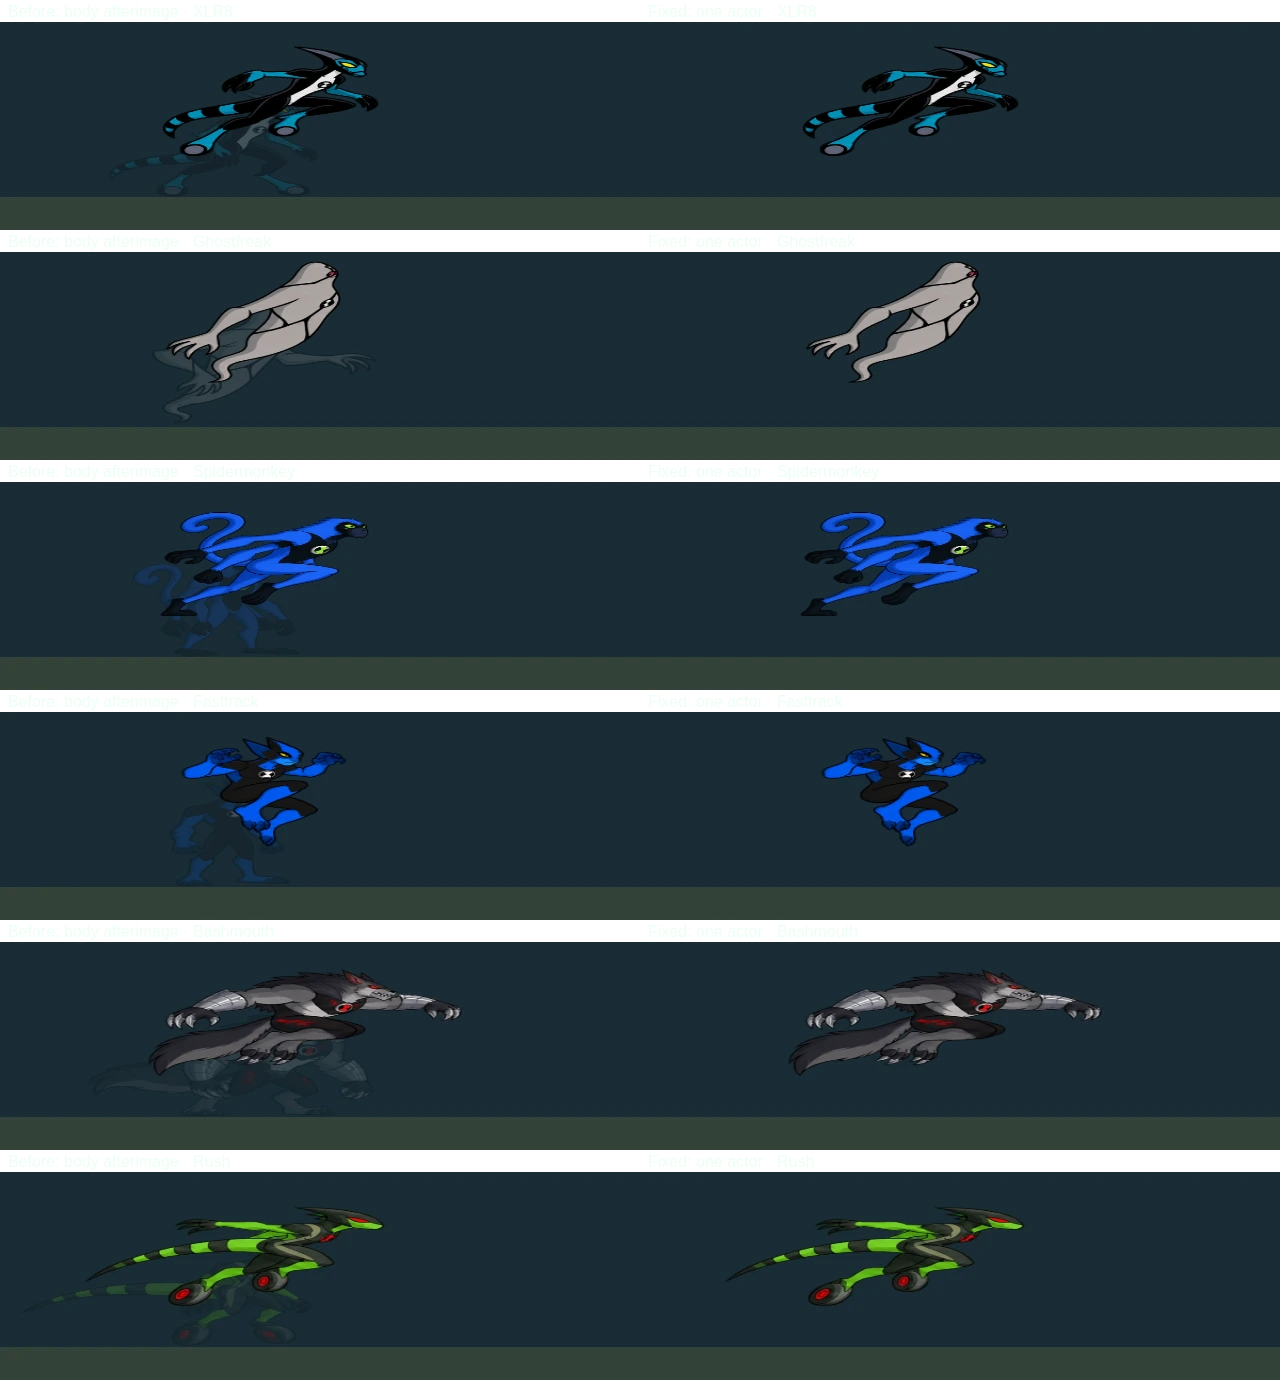
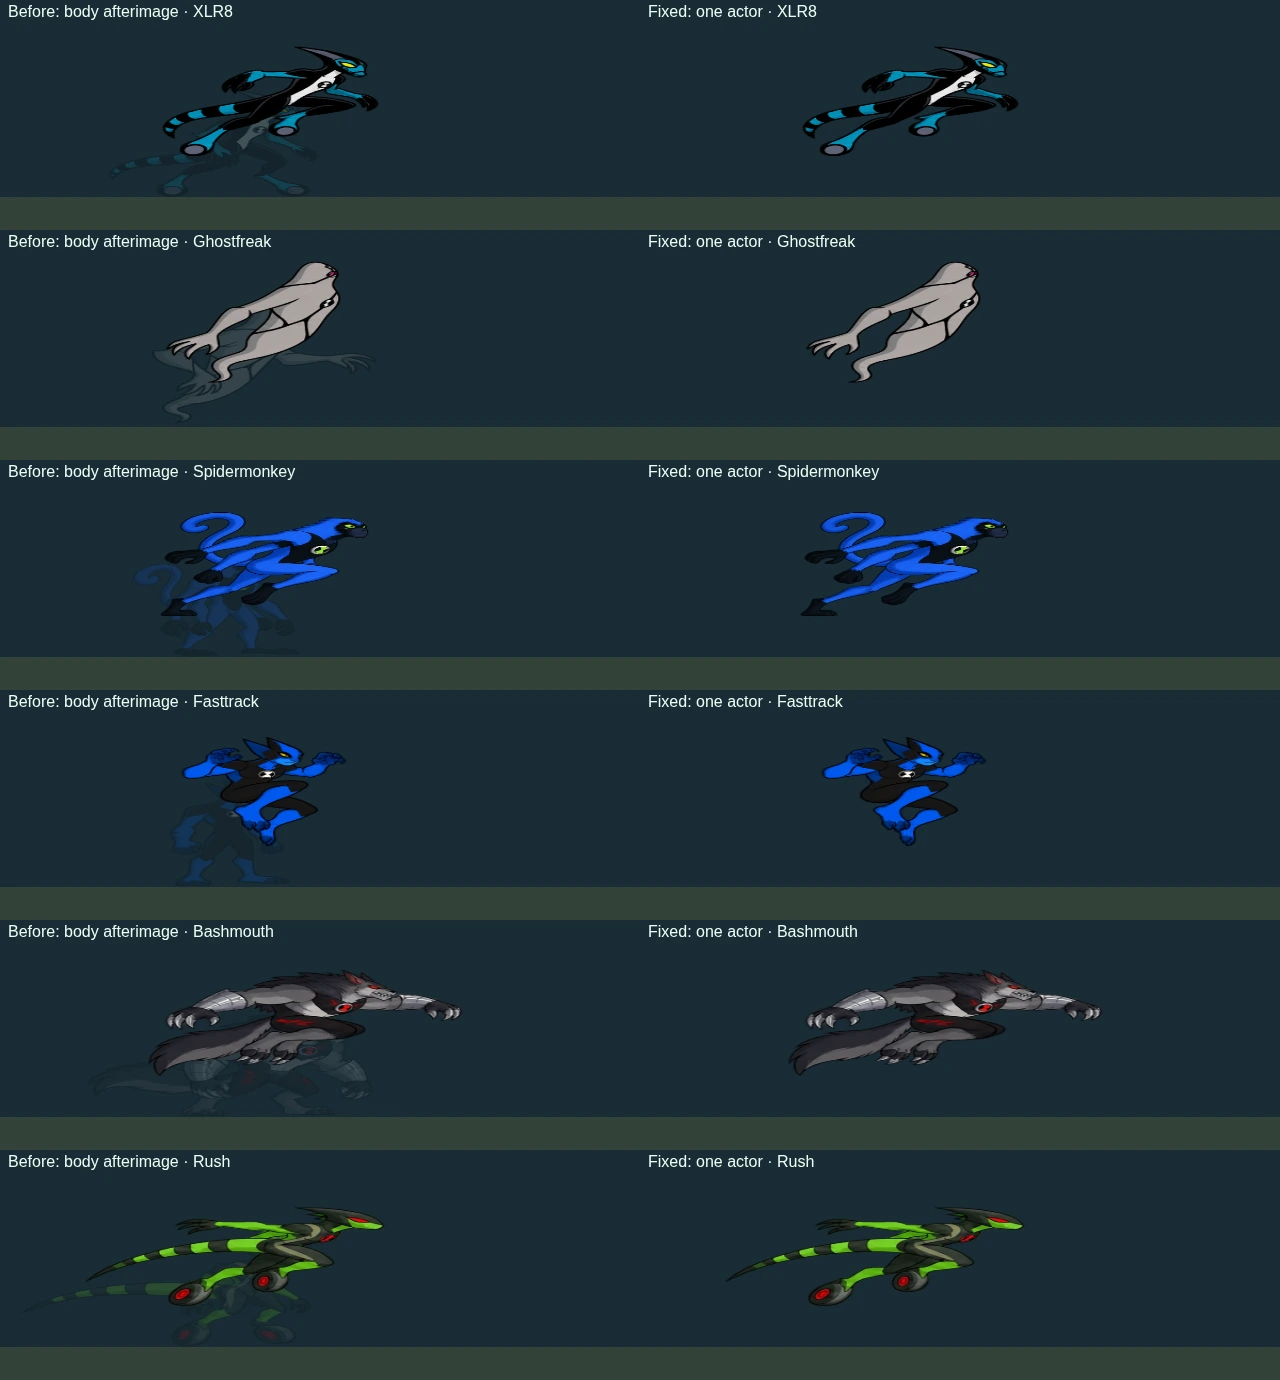
[art-audit] Save corrected ground motion and single-body jump verification

diff --git a/web/walk131-data.js b/web/walk131-data.js
@@ -1,2 +1,2 @@
 'use strict';
-const WALK131_DATA={"version":131,"characters":{"5":{"stride":0.94,"offsets":[0.0,0.010127,0.007595,-0.005063,-0.007595,-0.002532,0.012658,0.0],"nativeFrames":8},"8":{"stride":0.799,"offsets":[-0.008065,0.003456,0.008065,-0.003456,-0.00576,0.001152,0.003456,-0.001152],"nativeFrames":8},"11":{"stride":0.85,"offsets":[-0.00905,0.00905,0.002262,-0.002262,0.002262,0.013575,-0.011312,-0.011312],"nativeFrames":8},"12":{"stride":0.842084,"offsets":[0.009454,0.003151,-0.003151,-0.007353,-0.013655,0.013655,0.013655,-0.013655],"nativeFrames":8},"13":{"stride":0.864541,"offsets":[-0.013793,-0.011494,-0.002299,0.006897,-0.013793,0.006897,0.02069,0.002299],"nativeFrames":8},"14":{"stride":0.78,"offsets":[-0.00116,0.00116,0.0058,-0.00348,0.00116,0.0058,-0.00116,-0.0058],"nativeFrames":8},"15":{"stride":0.9,"offsets":[-0.003571,0.003571,-0.00119,0.00119,-0.00119,0.005952,-0.005952,0.00119],"nativeFrames":8},"16":{"stride":0.9,"offsets":[-0.00939,0.00939,-0.016432,0.002347,0.007042,-0.004695,0.011737,-0.002347],"nativeFrames":8},"17":{"stride":0.7055,"offsets":[-0.014706,0.001131,0.007919,-0.014706,0.012443,-0.001131,0.005656,-0.005656],"nativeFrames":8},"18":{"stride":0.782,"offsets":[-0.008316,-0.006237,0.006237,0.004158,-0.012474,0.0,0.012474,0.0],"nativeFrames":8},"20":{"stride":0.78,"offsets":[-0.002469,0.0,0.0,-0.002469,-0.004938,0.002469,0.002469,0.002469],"nativeFrames":8},"21":{"stride":0.777515,"offsets":[-0.001166,-0.01049,0.005828,-0.01049,-0.003497,0.001166,0.001166,0.01049],"nativeFrames":8},"22":{"stride":0.85,"offsets":[0.0,0.0,0.00216,-0.00432,-0.008639,0.00432,0.00216,-0.00216],"nativeFrames":8},"23":{"stride":0.7225,"offsets":[0.001109,-0.003326,-0.001109,0.001109,0.003326,0.003326,-0.007761,-0.003326],"nativeFrames":8},"27":{"stride":0.697,"offsets":[-0.001062,0.011677,0.007431,-0.001062,0.001062,-0.003185,0.009554,-0.007431],"nativeFrames":8},"28":{"stride":0.72,"offsets":[-0.01108,0.00831,0.022161,-0.00277,-0.00554,0.00277,0.00277,-0.00554],"nativeFrames":8},"29":{"stride":0.845879,"offsets":[-0.014184,0.009456,0.007092,-0.004728,0.002364,0.002364,-0.002364,-0.01182],"nativeFrames":8},"30":{"stride":0.92,"offsets":[0.002257,0.009029,-0.002257,-0.011287,-0.013544,0.004515,-0.015801,0.002257],"nativeFrames":8},"31":{"stride":0.734932,"offsets":[-0.001089,0.003268,0.005447,0.001089,-0.005447,-0.005447,0.003268,-0.011983],"nativeFrames":8},"32":{"stride":0.88,"offsets":[0.001163,0.001163,0.001163,-0.001163,-0.012791,0.003488,-0.012791,-0.005814],"nativeFrames":8},"35":{"stride":0.835039,"offsets":[-0.003488,0.002326,0.013953,-0.002326,-0.002326,0.004651,0.004651,-0.006977],"nativeFrames":8},"37":{"stride":0.72,"offsets":[-0.004831,0.0,0.009662,-0.002415,-0.002415,0.0,0.004831,0.007246],"nativeFrames":8},"38":{"stride":0.68,"offsets":[0.0,0.004819,0.0,0.0,0.0,0.0,0.00241,0.0],"nativeFrames":8},"39":{"stride":0.7,"offsets":[0.001064,-0.001064,0.026596,-0.009574,-0.005319,0.007447,0.01383,-0.001064],"nativeFrames":8},"40":{"stride":1.02,"offsets":[0.006098,0.006098,-0.006098,0.006098,-0.01626,-0.010163,-0.01626,0.010163],"nativeFrames":8},"41":{"stride":0.782,"offsets":[-0.023393,0.003358,-0.000677,0.000677,-0.021236,0.002217,-0.01626,0.001574],"nativeFrames":8},"42":{"stride":0.646,"offsets":[0.001,-0.003,0.009,-0.001,-0.001,-0.005,0.021,0.003],"nativeFrames":8},"43":{"stride":0.629,"offsets":[-0.001596,0.001596,0.00266,-0.003723,0.026064,-0.001596,0.004787,-0.001596],"nativeFrames":8},"44":{"stride":0.758639,"offsets":[-0.01828,0.005376,-0.005376,0.003226,-0.016129,-0.003226,0.005376,0.009677],"nativeFrames":8},"45":{"stride":0.708363,"offsets":[-0.007143,0.013265,0.003061,-0.003061,-0.009184,0.013265,0.005102,-0.007143],"nativeFrames":8},"46":{"stride":0.765,"offsets":[0.0,0.028866,0.024742,-0.002062,0.0,0.016495,0.0,0.0],"nativeFrames":8},"47":{"stride":0.82,"offsets":[0.001087,0.01413,0.005435,-0.005435,-0.001087,0.009783,-0.005435,-0.001087],"nativeFrames":8},"48":{"stride":0.795826,"offsets":[-0.001111,-0.001111,0.003333,0.001111,0.003333,-0.001111,0.001111,-0.003333],"nativeFrames":8},"49":{"stride":1.05,"offsets":[0.0,0.023041,0.018433,0.0,0.009217,-0.032258,-0.013825,-0.023041],"nativeFrames":8},"50":{"stride":0.92,"offsets":[0.007246,0.007246,0.0,0.0,0.007246,0.0,0.0,0.0],"nativeFrames":8},"52":{"stride":0.990621,"offsets":[0.005277,-0.007916,0.01847,0.0,-0.005277,0.0,-0.007916,0.002639],"nativeFrames":8},"54":{"stride":1.003,"offsets":[0.009132,0.0,0.0,-0.011416,0.02968,0.004566,-0.038813,0.0],"nativeFrames":8},"55":{"stride":1.003,"offsets":[0.015258,0.008216,0.001174,-0.001174,-0.003521,-0.001174,0.003521,-0.034038],"nativeFrames":8},"57":{"stride":0.85,"offsets":[0.0,0.002445,0.0,-0.002445,0.0,-0.007335,0.002445,-0.036675],"nativeFrames":8},"58":{"stride":0.85,"offsets":[0.011038,0.015453,0.011038,0.015453,-0.022075,-0.02649,-0.013245,-0.011038],"nativeFrames":8},"59":{"stride":0.7225,"offsets":[0.0,0.0,0.0,-0.002725,-0.002725,0.0,0.0,-0.002725],"nativeFrames":8},"60":{"stride":0.939773,"offsets":[0.0,0.0,-0.002331,-0.011655,0.002331,0.0,-0.002331,0.0],"nativeFrames":8},"61":{"stride":0.85,"offsets":[0.0,0.00813,-0.01084,0.00542,-0.00271,0.00271,-0.00271,0.0],"nativeFrames":8},"62":{"stride":0.93093,"offsets":[-0.001168,0.01285,0.017523,-0.010514,0.001168,0.003505,-0.050234,-0.003505],"nativeFrames":8},"63":{"stride":1.000829,"offsets":[0.004494,-0.008989,-0.002247,0.002247,0.006742,-0.013483,-0.035955,0.01573],"nativeFrames":8},"64":{"stride":0.975238,"offsets":[0.014223,0.016411,-0.003282,-0.02954,0.00547,-0.016411,0.003282,-0.003282],"nativeFrames":8},"65":{"stride":0.85,"offsets":[0.025672,-0.003667,-0.003667,-0.028117,0.003667,0.006112,-0.003667,0.033007],"nativeFrames":8},"67":{"stride":0.85,"offsets":[0.012531,0.027569,-0.007519,-0.027569,0.007519,-0.005013,-0.035088,0.005013],"nativeFrames":8},"70":{"stride":0.969307,"offsets":[0.002278,-0.015945,-0.002278,-0.020501,0.004556,0.020501,0.002278,-0.002278],"nativeFrames":8},"71":{"stride":0.782785,"offsets":[0.004535,0.002268,-0.006803,0.006803,-0.00907,0.004535,-0.002268,-0.006803],"nativeFrames":8},"72":{"stride":0.85,"offsets":[-0.007177,0.002392,-0.002392,-0.002392,0.011962,-0.011962,0.026316,0.016746],"nativeFrames":8},"73":{"stride":0.85,"offsets":[0.006383,-0.014894,0.019149,0.02766,-0.014894,-0.010638,0.006383,-0.006383],"nativeFrames":8},"74":{"stride":0.7225,"offsets":[-0.003226,0.0,-0.003226,0.009677,-0.009677,0.0,0.012903,0.022581],"nativeFrames":8},"75":{"stride":0.85,"offsets":[0.008032,-0.024096,0.004016,0.004016,-0.004016,-0.004016,0.008032,-0.012048],"nativeFrames":8},"77":{"stride":0.85,"offsets":[0.008734,0.0,-0.028384,-0.008734,0.0,0.004367,0.004367,-0.004367],"nativeFrames":8},"79":{"stride":0.85,"offsets":[-0.05102,-0.006122,0.05102,0.030612,0.014286,-0.034694,-0.006122,0.006122],"nativeFrames":8},"80":{"stride":0.85,"offsets":[-0.020833,-0.0125,0.0,0.0,-0.004167,0.0125,0.0125,0.004167],"nativeFrames":8},"81":{"stride":0.85,"offsets":[0.0,0.016556,0.023179,-0.016556,-0.013245,0.0,0.023179,-0.029801],"nativeFrames":8},"82":{"stride":0.775985,"offsets":[0.025391,0.025391,-0.013672,-0.009766,-0.005859,0.001953,-0.001953,0.001953],"nativeFrames":8},"83":{"stride":0.85,"offsets":[0.005338,-0.008897,0.033808,0.001779,-0.005338,0.001779,-0.016014,-0.001779],"nativeFrames":8},"84":{"stride":0.85,"offsets":[-0.012295,0.020492,0.0,0.012295,-0.008197,-0.012295,0.0,0.0],"nativeFrames":8},"85":{"stride":0.981092,"offsets":[0.008446,0.008446,-0.001689,0.008446,0.001689,-0.008446,-0.001689,-0.001689],"nativeFrames":8},"88":{"stride":0.85,"offsets":[-0.004082,0.0,-0.004082,0.0,0.0,0.016327,0.016327,-0.008163],"nativeFrames":8},"89":{"stride":1.003,"offsets":[0.012295,0.002049,0.0,-0.008197,0.0,0.0,-0.004098,-0.008197],"nativeFrames":8},"90":{"stride":1.003,"offsets":[0.0,0.0,0.0,0.0,0.0,0.0,0.0,0.0],"nativeFrames":8},"91":{"stride":0.85,"offsets":[0.001678,-0.001678,0.008389,0.005034,0.005034,-0.005034,-0.005034,-0.001678],"nativeFrames":8}},"sourcePixelsChanged":false};
+const WALK131_DATA={"version":131,"characters":{"5":{"stride":1.1092,"offsets":[0.0,0.010127,0.007595,-0.005063,-0.007595,-0.002532,0.012658,0.0],"nativeFrames":8},"8":{"stride":0.94282,"offsets":[-0.008065,0.003456,0.008065,-0.003456,-0.00576,0.001152,0.003456,-0.001152],"nativeFrames":8},"11":{"stride":0.85,"offsets":[-0.00905,0.00905,0.002262,-0.002262,0.002262,0.013575,-0.011312,-0.011312],"nativeFrames":8},"12":{"stride":0.993659,"offsets":[0.009454,0.003151,-0.003151,-0.007353,-0.013655,0.013655,0.013655,-0.013655],"nativeFrames":8},"13":{"stride":1.020158,"offsets":[-0.013793,-0.011494,-0.002299,0.006897,-0.013793,0.006897,0.02069,0.002299],"nativeFrames":8},"14":{"stride":0.9204,"offsets":[-0.00116,0.00116,0.0058,-0.00348,0.00116,0.0058,-0.00116,-0.0058],"nativeFrames":8},"15":{"stride":0.990476,"offsets":[-0.003571,0.003571,-0.00119,0.00119,-0.00119,0.005952,-0.005952,0.00119],"nativeFrames":8},"16":{"stride":1.030516,"offsets":[-0.00939,0.00939,-0.016432,0.002347,0.007042,-0.004695,0.011737,-0.002347],"nativeFrames":8},"17":{"stride":0.83249,"offsets":[-0.014706,0.001131,0.007919,-0.014706,0.012443,-0.001131,0.005656,-0.005656],"nativeFrames":8},"18":{"stride":0.92276,"offsets":[-0.008316,-0.006237,0.006237,0.004158,-0.012474,0.0,0.012474,0.0],"nativeFrames":8},"20":{"stride":0.9204,"offsets":[-0.002469,0.0,0.0,-0.002469,-0.004938,0.002469,0.002469,0.002469],"nativeFrames":8},"21":{"stride":0.917468,"offsets":[-0.001166,-0.01049,0.005828,-0.01049,-0.003497,0.001166,0.001166,0.01049],"nativeFrames":8},"22":{"stride":1.003,"offsets":[0.0,0.0,0.00216,-0.00432,-0.008639,0.00432,0.00216,-0.00216],"nativeFrames":8},"23":{"stride":0.85255,"offsets":[0.001109,-0.003326,-0.001109,0.001109,0.003326,0.003326,-0.007761,-0.003326],"nativeFrames":8},"27":{"stride":0.82246,"offsets":[-0.001062,0.011677,0.007431,-0.001062,0.001062,-0.003185,0.009554,-0.007431],"nativeFrames":8},"28":{"stride":0.72,"offsets":[-0.01108,0.00831,0.022161,-0.00277,-0.00554,0.00277,0.00277,-0.00554],"nativeFrames":8},"29":{"stride":0.998137,"offsets":[-0.014184,0.009456,0.007092,-0.004728,0.002364,0.002364,-0.002364,-0.01182],"nativeFrames":8},"30":{"stride":0.92,"offsets":[0.002257,0.009029,-0.002257,-0.011287,-0.013544,0.004515,-0.015801,0.002257],"nativeFrames":8},"31":{"stride":0.86722,"offsets":[-0.001089,0.003268,0.005447,0.001089,-0.005447,-0.005447,0.003268,-0.011983],"nativeFrames":8},"32":{"stride":1.0384,"offsets":[0.001163,0.001163,0.001163,-0.001163,-0.012791,0.003488,-0.012791,-0.005814],"nativeFrames":8},"35":{"stride":0.985346,"offsets":[-0.003488,0.002326,0.013953,-0.002326,-0.002326,0.004651,0.004651,-0.006977],"nativeFrames":8},"37":{"stride":0.8496,"offsets":[-0.004831,0.0,0.009662,-0.002415,-0.002415,0.0,0.004831,0.007246],"nativeFrames":8},"38":{"stride":0.8024,"offsets":[0.0,0.004819,0.0,0.0,0.0,0.0,0.00241,0.0],"nativeFrames":8},"39":{"stride":0.826,"offsets":[0.001064,-0.001064,0.026596,-0.009574,-0.005319,0.007447,0.01383,-0.001064],"nativeFrames":8},"40":{"stride":1.02,"offsets":[0.006098,0.006098,-0.006098,0.006098,-0.01626,-0.010163,-0.01626,0.010163],"nativeFrames":8},"41":{"stride":0.92276,"offsets":[-0.023393,0.003358,-0.000677,0.000677,-0.021236,0.002217,-0.01626,0.001574],"nativeFrames":8},"42":{"stride":0.76228,"offsets":[0.001,-0.003,0.009,-0.001,-0.001,-0.005,0.021,0.003],"nativeFrames":8},"43":{"stride":0.74222,"offsets":[-0.001596,0.001596,0.00266,-0.003723,0.026064,-0.001596,0.004787,-0.001596],"nativeFrames":8},"44":{"stride":0.895194,"offsets":[-0.01828,0.005376,-0.005376,0.003226,-0.016129,-0.003226,0.005376,0.009677],"nativeFrames":8},"45":{"stride":0.835868,"offsets":[-0.007143,0.013265,0.003061,-0.003061,-0.009184,0.013265,0.005102,-0.007143],"nativeFrames":8},"46":{"stride":0.9027,"offsets":[0.0,0.028866,0.024742,-0.002062,0.0,0.016495,0.0,0.0],"nativeFrames":8},"47":{"stride":0.82,"offsets":[0.001087,0.01413,0.005435,-0.005435,-0.001087,0.009783,-0.005435,-0.001087],"nativeFrames":8},"48":{"stride":0.939075,"offsets":[-0.001111,-0.001111,0.003333,0.001111,0.003333,-0.001111,0.001111,-0.003333],"nativeFrames":8},"49":{"stride":1.15,"offsets":[0.0,0.023041,0.018433,0.0,0.009217,-0.032258,-0.013825,-0.023041],"nativeFrames":8},"50":{"stride":0.92,"offsets":[0.007246,0.007246,0.0,0.0,0.007246,0.0,0.0,0.0],"nativeFrames":8},"52":{"stride":1.15,"offsets":[0.005277,-0.007916,0.01847,0.0,-0.005277,0.0,-0.007916,0.002639],"nativeFrames":8},"54":{"stride":1.15,"offsets":[0.009132,0.0,0.0,-0.011416,0.02968,0.004566,-0.038813,0.0],"nativeFrames":8},"55":{"stride":1.15,"offsets":[0.015258,0.008216,0.001174,-0.001174,-0.003521,-0.001174,0.003521,-0.034038],"nativeFrames":8},"57":{"stride":1.003,"offsets":[0.0,0.002445,0.0,-0.002445,0.0,-0.007335,0.002445,-0.036675],"nativeFrames":8},"58":{"stride":1.003,"offsets":[0.011038,0.015453,0.011038,0.015453,-0.022075,-0.02649,-0.013245,-0.011038],"nativeFrames":8},"59":{"stride":0.85255,"offsets":[0.0,0.0,0.0,-0.002725,-0.002725,0.0,0.0,-0.002725],"nativeFrames":8},"60":{"stride":1.108932,"offsets":[0.0,0.0,-0.002331,-0.011655,0.002331,0.0,-0.002331,0.0],"nativeFrames":8},"61":{"stride":1.003,"offsets":[0.0,0.00813,-0.01084,0.00542,-0.00271,0.00271,-0.00271,0.0],"nativeFrames":8},"62":{"stride":1.098497,"offsets":[-0.001168,0.01285,0.017523,-0.010514,0.001168,0.003505,-0.050234,-0.003505],"nativeFrames":8},"63":{"stride":1.15,"offsets":[0.004494,-0.008989,-0.002247,0.002247,0.006742,-0.013483,-0.035955,0.01573],"nativeFrames":8},"64":{"stride":1.15,"offsets":[0.014223,0.016411,-0.003282,-0.02954,0.00547,-0.016411,0.003282,-0.003282],"nativeFrames":8},"65":{"stride":1.003,"offsets":[0.025672,-0.003667,-0.003667,-0.028117,0.003667,0.006112,-0.003667,0.033007],"nativeFrames":8},"67":{"stride":1.003,"offsets":[0.012531,0.027569,-0.007519,-0.027569,0.007519,-0.005013,-0.035088,0.005013],"nativeFrames":8},"70":{"stride":1.143782,"offsets":[0.002278,-0.015945,-0.002278,-0.020501,0.004556,0.020501,0.002278,-0.002278],"nativeFrames":8},"71":{"stride":0.923686,"offsets":[0.004535,0.002268,-0.006803,0.006803,-0.00907,0.004535,-0.002268,-0.006803],"nativeFrames":8},"72":{"stride":0.85,"offsets":[-0.007177,0.002392,-0.002392,-0.002392,0.011962,-0.011962,0.026316,0.016746],"nativeFrames":8},"73":{"stride":0.85,"offsets":[0.006383,-0.014894,0.019149,0.02766,-0.014894,-0.010638,0.006383,-0.006383],"nativeFrames":8},"74":{"stride":0.85255,"offsets":[-0.003226,0.0,-0.003226,0.009677,-0.009677,0.0,0.012903,0.022581],"nativeFrames":8},"75":{"stride":0.85,"offsets":[0.008032,-0.024096,0.004016,0.004016,-0.004016,-0.004016,0.008032,-0.012048],"nativeFrames":8},"77":{"stride":1.003,"offsets":[0.008734,0.0,-0.028384,-0.008734,0.0,0.004367,0.004367,-0.004367],"nativeFrames":8},"79":{"stride":0.85,"offsets":[-0.05102,-0.006122,0.05102,0.030612,0.014286,-0.034694,-0.006122,0.006122],"nativeFrames":8},"80":{"stride":0.85,"offsets":[-0.020833,-0.0125,0.0,0.0,-0.004167,0.0125,0.0125,0.004167],"nativeFrames":8},"81":{"stride":1.003,"offsets":[0.0,0.016556,0.023179,-0.016556,-0.013245,0.0,0.023179,-0.029801],"nativeFrames":8},"82":{"stride":0.915662,"offsets":[0.025391,0.025391,-0.013672,-0.009766,-0.005859,0.001953,-0.001953,0.001953],"nativeFrames":8},"83":{"stride":1.003,"offsets":[0.005338,-0.008897,0.033808,0.001779,-0.005338,0.001779,-0.016014,-0.001779],"nativeFrames":8},"84":{"stride":0.85,"offsets":[-0.012295,0.020492,0.0,0.012295,-0.008197,-0.012295,0.0,0.0],"nativeFrames":8},"85":{"stride":1.15,"offsets":[0.008446,0.008446,-0.001689,0.008446,0.001689,-0.008446,-0.001689,-0.001689],"nativeFrames":8},"88":{"stride":1.003,"offsets":[-0.004082,0.0,-0.004082,0.0,0.0,0.016327,0.016327,-0.008163],"nativeFrames":8},"89":{"stride":1.15,"offsets":[0.012295,0.002049,0.0,-0.008197,0.0,0.0,-0.004098,-0.008197],"nativeFrames":8},"90":{"stride":1.15,"offsets":[0.0,0.0,0.0,0.0,0.0,0.0,0.0,0.0],"nativeFrames":8},"91":{"stride":1.003,"offsets":[0.001678,-0.001678,0.008389,0.005034,0.005034,-0.005034,-0.005034,-0.001678],"nativeFrames":8}},"sourcePixelsChanged":false};
